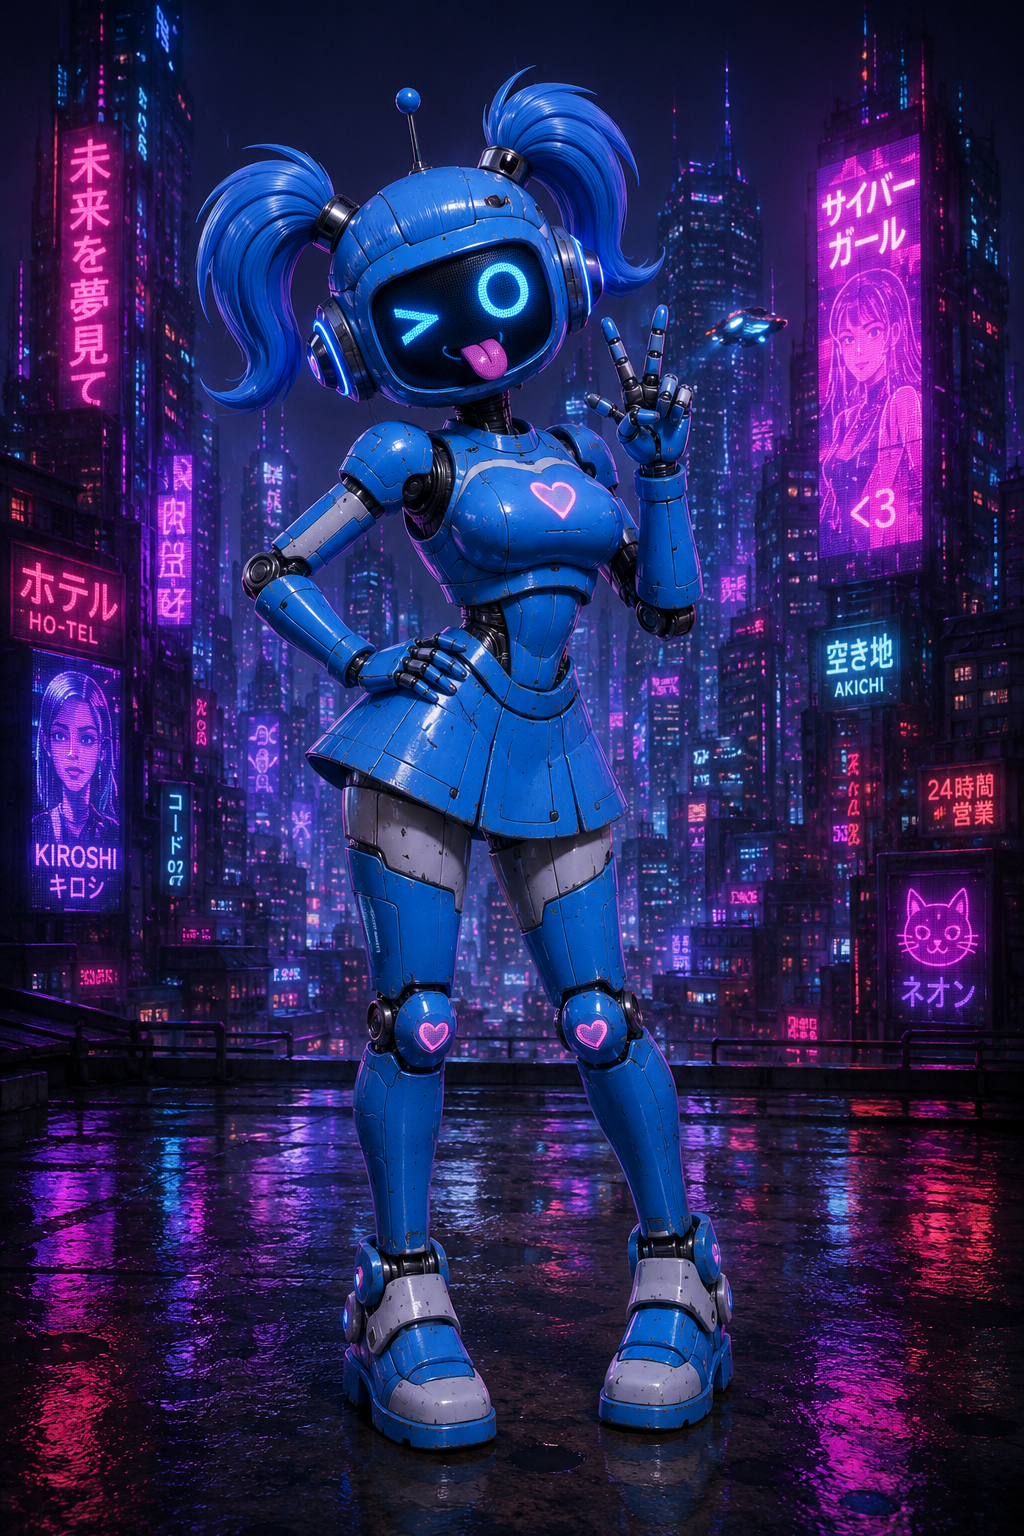
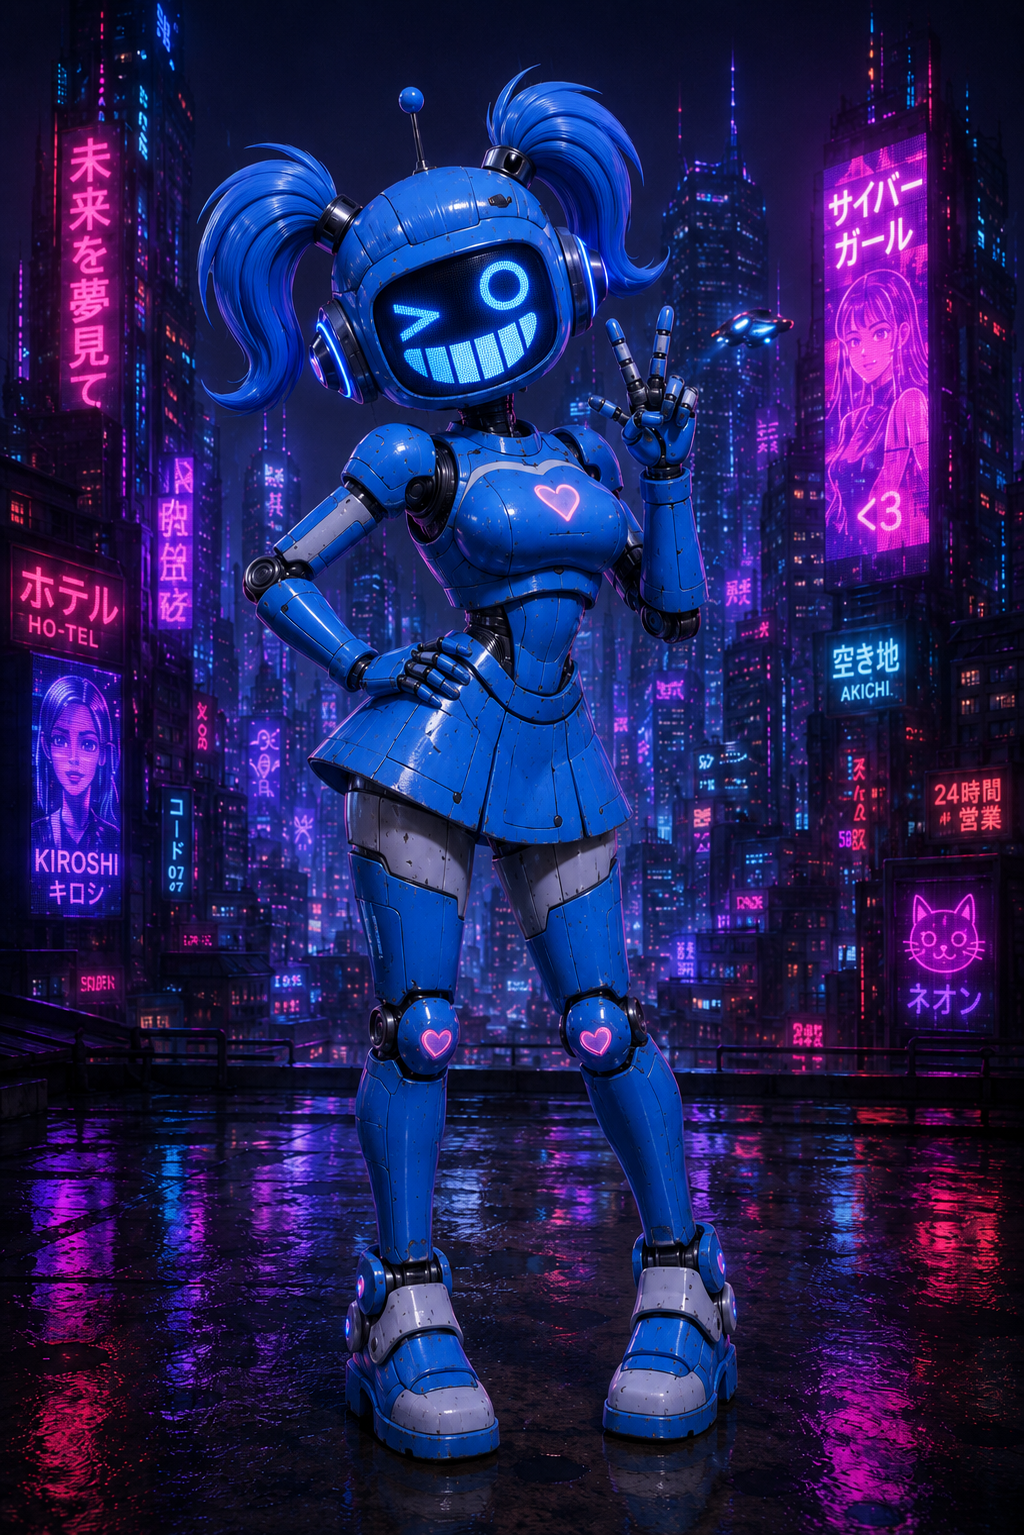
update some bots

diff --git a/core/src/main/kotlin/com/drcorchit/cards/cyberpunk/Placard.kt b/core/src/main/kotlin/com/drcorchit/cards/cyberpunk/Placard.kt
@@ -5,12 +5,11 @@ import com.badlogic.gdx.graphics.Color
 import com.drcorchit.cards.graphics.AnimatedSprite
 import com.drcorchit.cards.graphics.Draw
 import com.drcorchit.cards.graphics.Drawable
-import com.drcorchit.cards.graphics.Fonts
 import com.drcorchit.cards.graphics.Textures
 import com.drcorchit.cards.graphics.Textures.asSprite
 import com.drcorchit.justice.utils.StringUtils.normalize
 
-class Placard(val bot: Rococobot, val prefix: String): Drawable {
+class Placard(val bot: Rococobot, val prefix: String) : Drawable {
 
     override val name = bot.name
 
@@ -23,7 +22,8 @@ class Placard(val bot: Rococobot, val prefix: String): Drawable {
         val my = Gdx.graphics.height - Gdx.input.y.toFloat()
 
         image.draw(Draw.batch, 125f, 130f)
-        bot.signature.draw(Draw.batch, 555f, 300f, rotation = 20f)
+        bot.signatureGlow.draw(Draw.batch, sigX, sigY, rotation = sigAngle)
+        bot.signature.draw(Draw.batch, sigX, sigY, rotation = sigAngle)
         screen.draw(Draw.batch, 136f, 136f, 1000f, 1523f)
         placard.draw(Draw.batch, 0f, 0f)
 
@@ -35,15 +35,28 @@ class Placard(val bot: Rococobot, val prefix: String): Drawable {
     }
 
     companion object {
-        val botsPretty = Rococobot.entries.map { Placard(it, "pretty") }
-        val botsSilly = Rococobot.entries.map { Placard(it, "silly") }
-        val botsSilly2 = Rococobot.entries.map { Placard(it, "silly2") }
+        val botsBallerina = Rococobot.entries.map { Placard(it, "ballerina") }
         val botsConfident = Rococobot.entries.map { Placard(it, "confident") }
+        val botsPretty = Rococobot.entries.map { Placard(it, "pretty") }
+        val botsSilly0 = Rococobot.entries.map { Placard(it, "silly") }
+        val botsSilly1 = Rococobot.entries.map { Placard(it, "silly1") }
+        val botsSilly2 = Rococobot.entries.map { Placard(it, "silly2") }
+        val botsSilly3 = Rococobot.entries.map { Placard(it, "silly3") }
 
-        val bots = botsSilly2 + botsConfident
+        val oneColor = listOf("pretty", "ballerina", "confident", "silly", "silly1", "silly2", "silly3").map {
+            Placard(Rococobot.Flamme, it)
+        }
+
+        val all = botsBallerina + botsConfident + botsPretty + botsSilly0 + botsSilly1 + botsSilly2 + botsSilly3
+
+        val bots = botsSilly1 + botsSilly2
 
         val placard = Textures.placard2.asSprite()
         val screen = Textures.screen2.asSprite()
+
+        val sigX = 750f
+        val sigY = 500f
+        val sigAngle = 20f
 
         init {
             screen.blend.set(Color(.4f, .6f, .8f, 1f))

diff --git a/core/src/main/kotlin/com/drcorchit/cards/cyberpunk/Rococobot.kt b/core/src/main/kotlin/com/drcorchit/cards/cyberpunk/Rococobot.kt
@@ -5,16 +5,17 @@ import com.drcorchit.cards.LocalAssets
 import com.drcorchit.cards.graphics.AnimatedSprite
 import com.drcorchit.cards.graphics.Textures
 import com.drcorchit.cards.graphics.Textures.asSprite
+import com.drcorchit.justice.utils.math.Compass
 
-enum class Rococobot(val color: Color, val isMale: Boolean) {
-    Rose(Color.RED, false),
-    Flamme(Color.ORANGE, false),
-    Fuschia(Color.PINK, false),
-    Violet(Color.PURPLE, false),
-    Lotus(Color.WHITE, false),
-    Noir(Color.BLACK, false),
-    Viridia(Color.GREEN, false),
-    Sapphire(Color.BLUE, false);
+enum class Rococobot(val color: Color) {
+    Rose(Color.RED),
+    Flamme(Color.ORANGE),
+    Fuschia(Color.PINK),
+    Violet(Color.PURPLE),
+    Lotus(Color.WHITE),
+    Noir(Color.BLACK),
+    Viridia(Color.GREEN),
+    Sapphire(Color.BLUE);
 //    Spike(Color.RED, true),
 //    Turbo(Color.ORANGE, true),
 //    Rage(Color.PINK, true),
@@ -30,8 +31,18 @@ enum class Rococobot(val color: Color, val isMale: Boolean) {
         return LocalAssets.getInstance().create("${prefix}_$name.png").asSprite()
     }
 
-    private val signatureStrip = if (isMale) Textures.signatures2 else Textures.signatures
-    private val signatureIndex = if (isMale) ordinal - 8.0 else ordinal.toDouble()
-    val signature = AnimatedSprite(signatureStrip.getFrames()).let { it.index = signatureIndex; it }
+    val signature = AnimatedSprite(Textures.signatures.getFrames())
+        .let {
+            it.setOffset(Compass.CENTER)
+            it.index = ordinal.toDouble()
+            it
+        }
+    val signatureGlow = AnimatedSprite(Textures.signaturesGlow.getFrames())
+        .let {
+            it.setOffset(Compass.CENTER)
+            it.index = ordinal.toDouble();
+            it.blend.set(color)
+            it
+        }
 
 }

diff --git a/core/src/main/kotlin/com/drcorchit/cards/graphics/Textures.kt b/core/src/main/kotlin/com/drcorchit/cards/graphics/Textures.kt
@@ -60,7 +60,8 @@ object Textures {
     val card3 = initTexture("card_art.png")
     val card3Shiny = initTexture("card_art_shiny.png")
     val signatures = initTexture("signatures_strip8.png").asSprite(8)
-    val signatures2 = initTexture("signatures2_strip8.png").asSprite(8)
+    val signaturesGlow = initTexture("signatures_glow_strip8.png").asSprite(8)
+    val signaturesMale = initTexture("signatures2_strip8.png").asSprite(8)
     val placard = initTexture("placard_with_shading_and_subtle_overlay.png")
     val placard2 = initTexture("placard_shortened.png")
     val screen = initTexture("screen.png")
